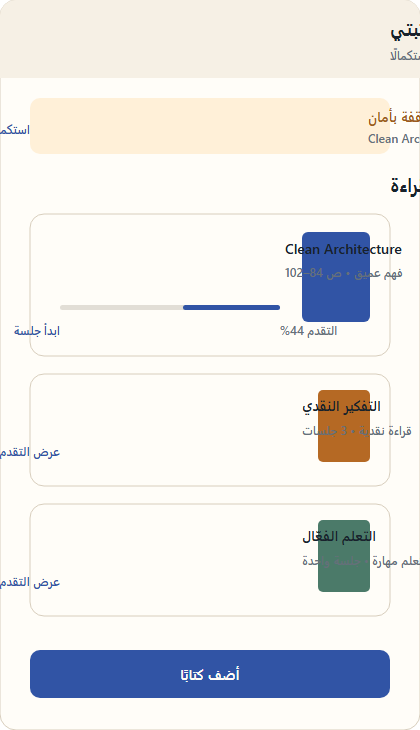
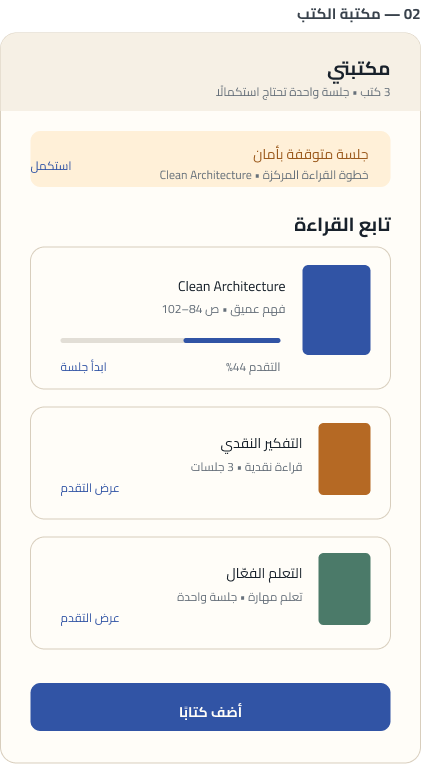
Use direct Figma PNG exports for store screens

Changed region(s): [[0.0, 0.0, 1.0, 0.9945], [0.0, 0.9945, 0.9905, 1.0], [0.0, 0.6932, 0.2167, 0.8438]]

diff --git a/STATUS.md b/STATUS.md
@@ -33,7 +33,7 @@ Verified on 2026-09-15.
 - `SPEC-017` / `WORK-057–060` implementation is complete locally: MIT license, README, contribution/security/privacy contracts, deterministic SVG icons and synthetic Arabic RTL store screenshots, changelog/store metadata, pinned Node/npm release verification, CI, and draft package evidence.
[2 lines of base64/hex data omitted]
-- Figma screen asset refresh on 2026-09-16: opened the Figma file in the Codex browser, selected page `02 — MVP Screens`, and extracted its ten RTL screen groups from the checked-in Figma source SVG into standalone marketplace assets (Onboarding, Library, New Book, Goal, Protocol, Focus, Recall, Summary, Progress, Settings). README now embeds all ten previews; `docs/release/assets-manifest.json` records the Figma source and keeps the recovery state as a supplemental reference. Figma MCP export calls remain quota-blocked, so the checked-in source SVG is the authoritative local export path.
+- Figma PNG asset refresh on 2026-09-16: opened the Figma file in the Codex browser and used Figma's `Export Group` control to download nine populated MVP frames from `02 — MVP Screens` as native PNGs (Onboarding, Library, New Book, Goal, Protocol, Focus, Recall, Summary, Progress). The Figma Settings placeholder is blank, so the existing approved Settings/import fixture remains the tenth PNG and is explicitly identified in `docs/release/assets-manifest.json`; no SVG screen is referenced by the README or marketplace manifest. Native Figma exports are 421x764; the approved Settings/import fixture is 420x730. Figma MCP export calls remain quota-blocked. The attached phone image is a viewer preview of the Library PNG, not an additional asset.
 - Chrome for Testing 152.0.7977.82 + ChromeDriver 152.0.7977.82 and Microsoft Edge 153.0.4234.32 + EdgeDriver 153.0.4234.32 passed onboarding, core flow, restart/recovery, migration read-only/export, import preview/cancel/commit, RTL, and zero extension console/network errors. Toolbar action remains blocked by the WebDriver DevTools allowlist; direct registered Side Panel verification was used. Store submission remains draft by choice; canonical repository/support/privacy URLs are now configured.
 - The first implementation slice for SPEC-014 is now present locally: pure goal/rules, immutable protocol snapshots and executable steps, reverse-planning, book metadata/fingerprints/lifecycle, IndexedDB schema/repositories with atomic plan/session bundle writes, migration/read-only contracts, autosave coalescing/retry, recovery detection, library queries, session transitions, absolute timers, and the guided book/goal/preview/focus routes.
 - The persistence/session slice now includes real `fake-indexeddb` integration tests, explicit migration write gates, persisted recovery resume/abandon choices, session-step and learning-artifact bundle writes, question autosave during Protocol Preview, recall/review artifact persistence, timer pause/resume/break commands, and active/archived Library actions.

diff --git a/docs/release/store-listing.md b/docs/release/store-listing.md
@@ -9,7 +9,7 @@ Submission state: draft/unpublished only. The repository and policy URLs are con
 - **Permission rationale:** `sidePanel` displays the companion panel; `storage` keeps small preferences; `activeTab` reads the active tab title and URL only after explicit invocation. No host permissions are requested.
 - **Privacy disclosure:** Data stays in local IndexedDB and Chrome Storage. No accounts, telemetry, analytics, URL fetching, or remote identifiers; PDF content and response metadata are never inspected.
 - **Supported browsers:** Chrome 114+ and Microsoft Edge with Manifest V3 support.
-- **Screenshot set:** Ten privacy-safe Arabic RTL MVP exports from the Figma `02 — MVP Screens` board: onboarding, Library, New Book, Goal, Protocol, Focus, Recall, Summary, Progress, and Settings/import. A separate recovery-state reference is included for review. The exports contain synthetic data only and no PDF content.
+- **Screenshot set:** Ten privacy-safe Arabic RTL PNG MVP exports: onboarding, Library, New Book, Goal, Protocol, Focus, Recall, Summary, Progress, and Settings/import. Nine are direct `Export Group` PNGs from the Figma `02 — MVP Screens` board; the Settings/import PNG is the approved local fixture because that Figma placeholder is blank. The exports contain synthetic data only and no PDF content.
 - **Support URL:** https://github.com/devabdelrahmannasr/maeen/issues
 - **Privacy URL:** https://github.com/devabdelrahmannasr/maeen/blob/main/docs/architecture/PRIVACY_SECURITY.md
 - **Security reporting:** Use the private advisory channel described in [`SECURITY.md`](https://github.com/devabdelrahmannasr/maeen/blob/main/SECURITY.md).

diff --git a/README.md b/README.md
@@ -115,7 +115,7 @@ Use matching browser and WebDriver versions with an isolated profile. Evidence i
 
 ## Marketplace preview assets
 
-The draft listing package includes ten privacy-safe Arabic RTL screen exports from the [Figma MVP screen board](https://www.figma.com/design/AwmNEUtZBnWzs5jjNgu0VW/), plus a supplemental recovery-state reference. The exports are stored locally in [`docs/release/store-assets/`](docs/release/store-assets/) and contain no private user data or PDF content. Branding sources are [maeen-logo.svg](public/branding/maeen-logo.svg) and [maeen-cover.svg](docs/release/maeen-cover.svg). The package remains unpublished by choice; marketplace publication is outside this internal-alpha release.
+The draft listing package includes ten privacy-safe Arabic RTL PNG screens: nine direct exports from the [Figma MVP screen board](https://www.figma.com/design/AwmNEUtZBnWzs5jjNgu0VW/) plus the approved Settings/import fixture (the corresponding Figma placeholder is blank). The exports are stored locally in [`docs/release/store-assets/`](docs/release/store-assets/), contain no private user data or PDF content, and are the only screen files referenced by the marketplace gallery. Branding sources remain [maeen-logo.svg](public/branding/maeen-logo.svg) and [maeen-cover.svg](docs/release/maeen-cover.svg); SVG is not used for the screen gallery. The package remains unpublished by choice; marketplace publication is outside this internal-alpha release.
 
 ### Figma screen gallery
 
